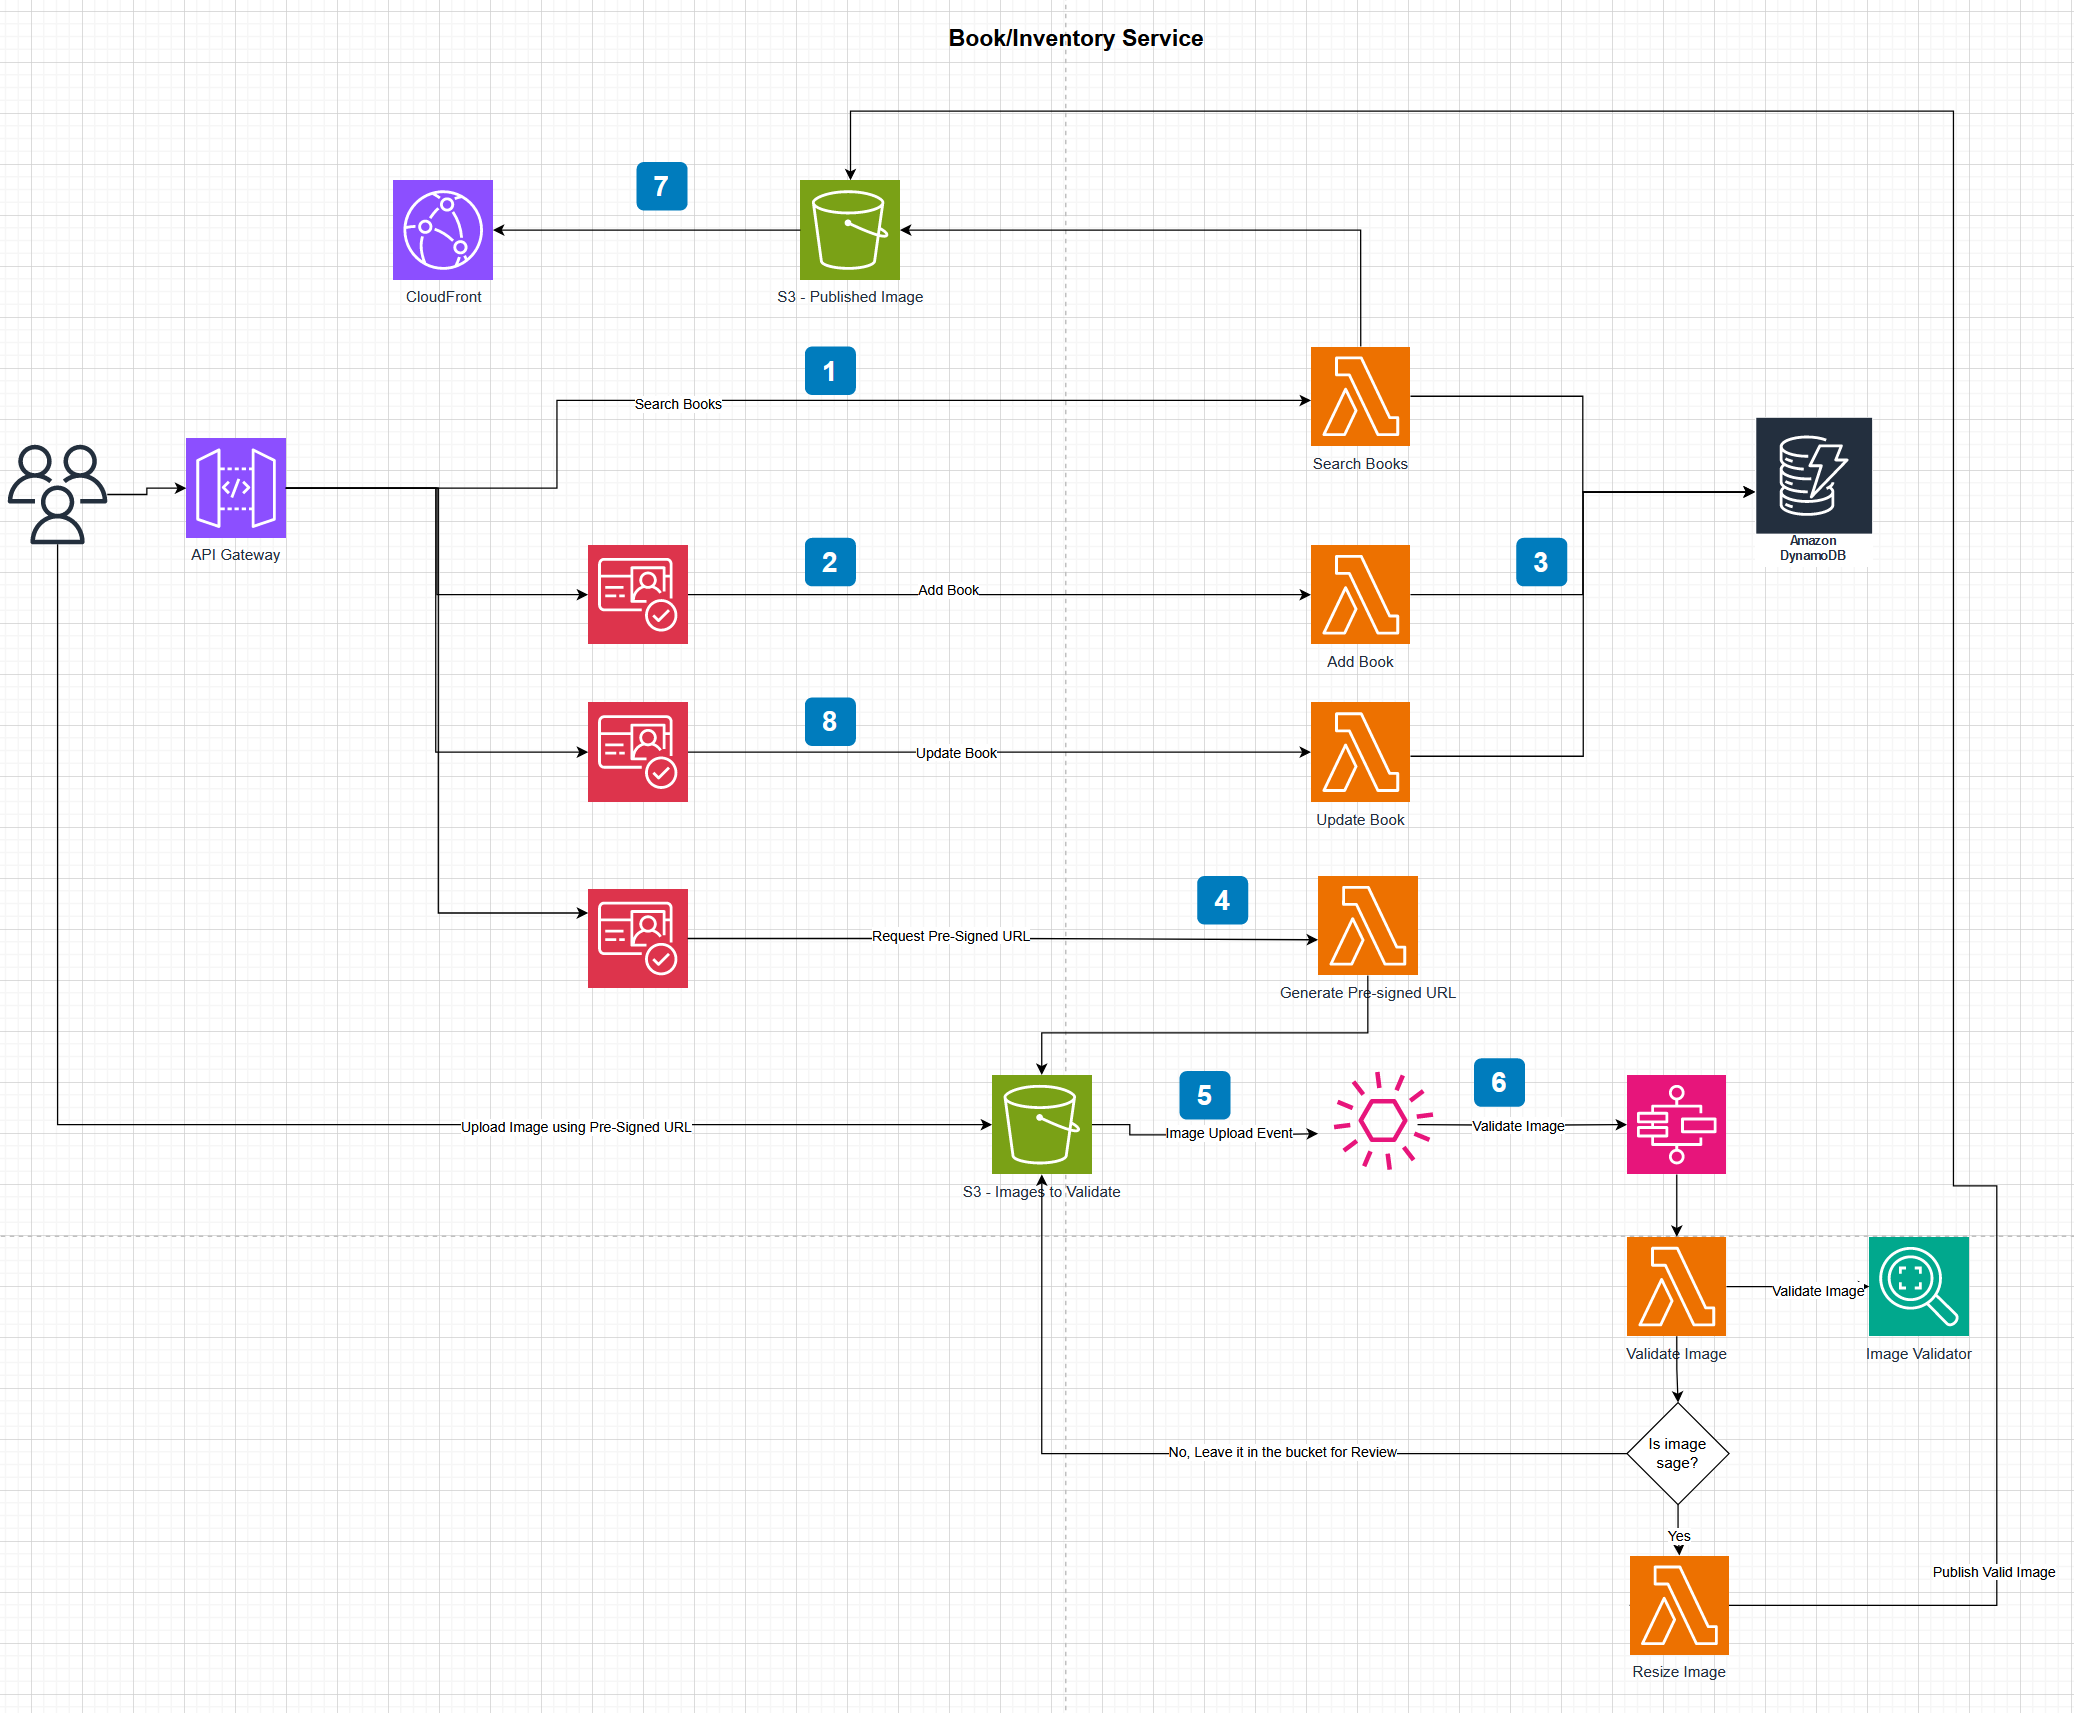
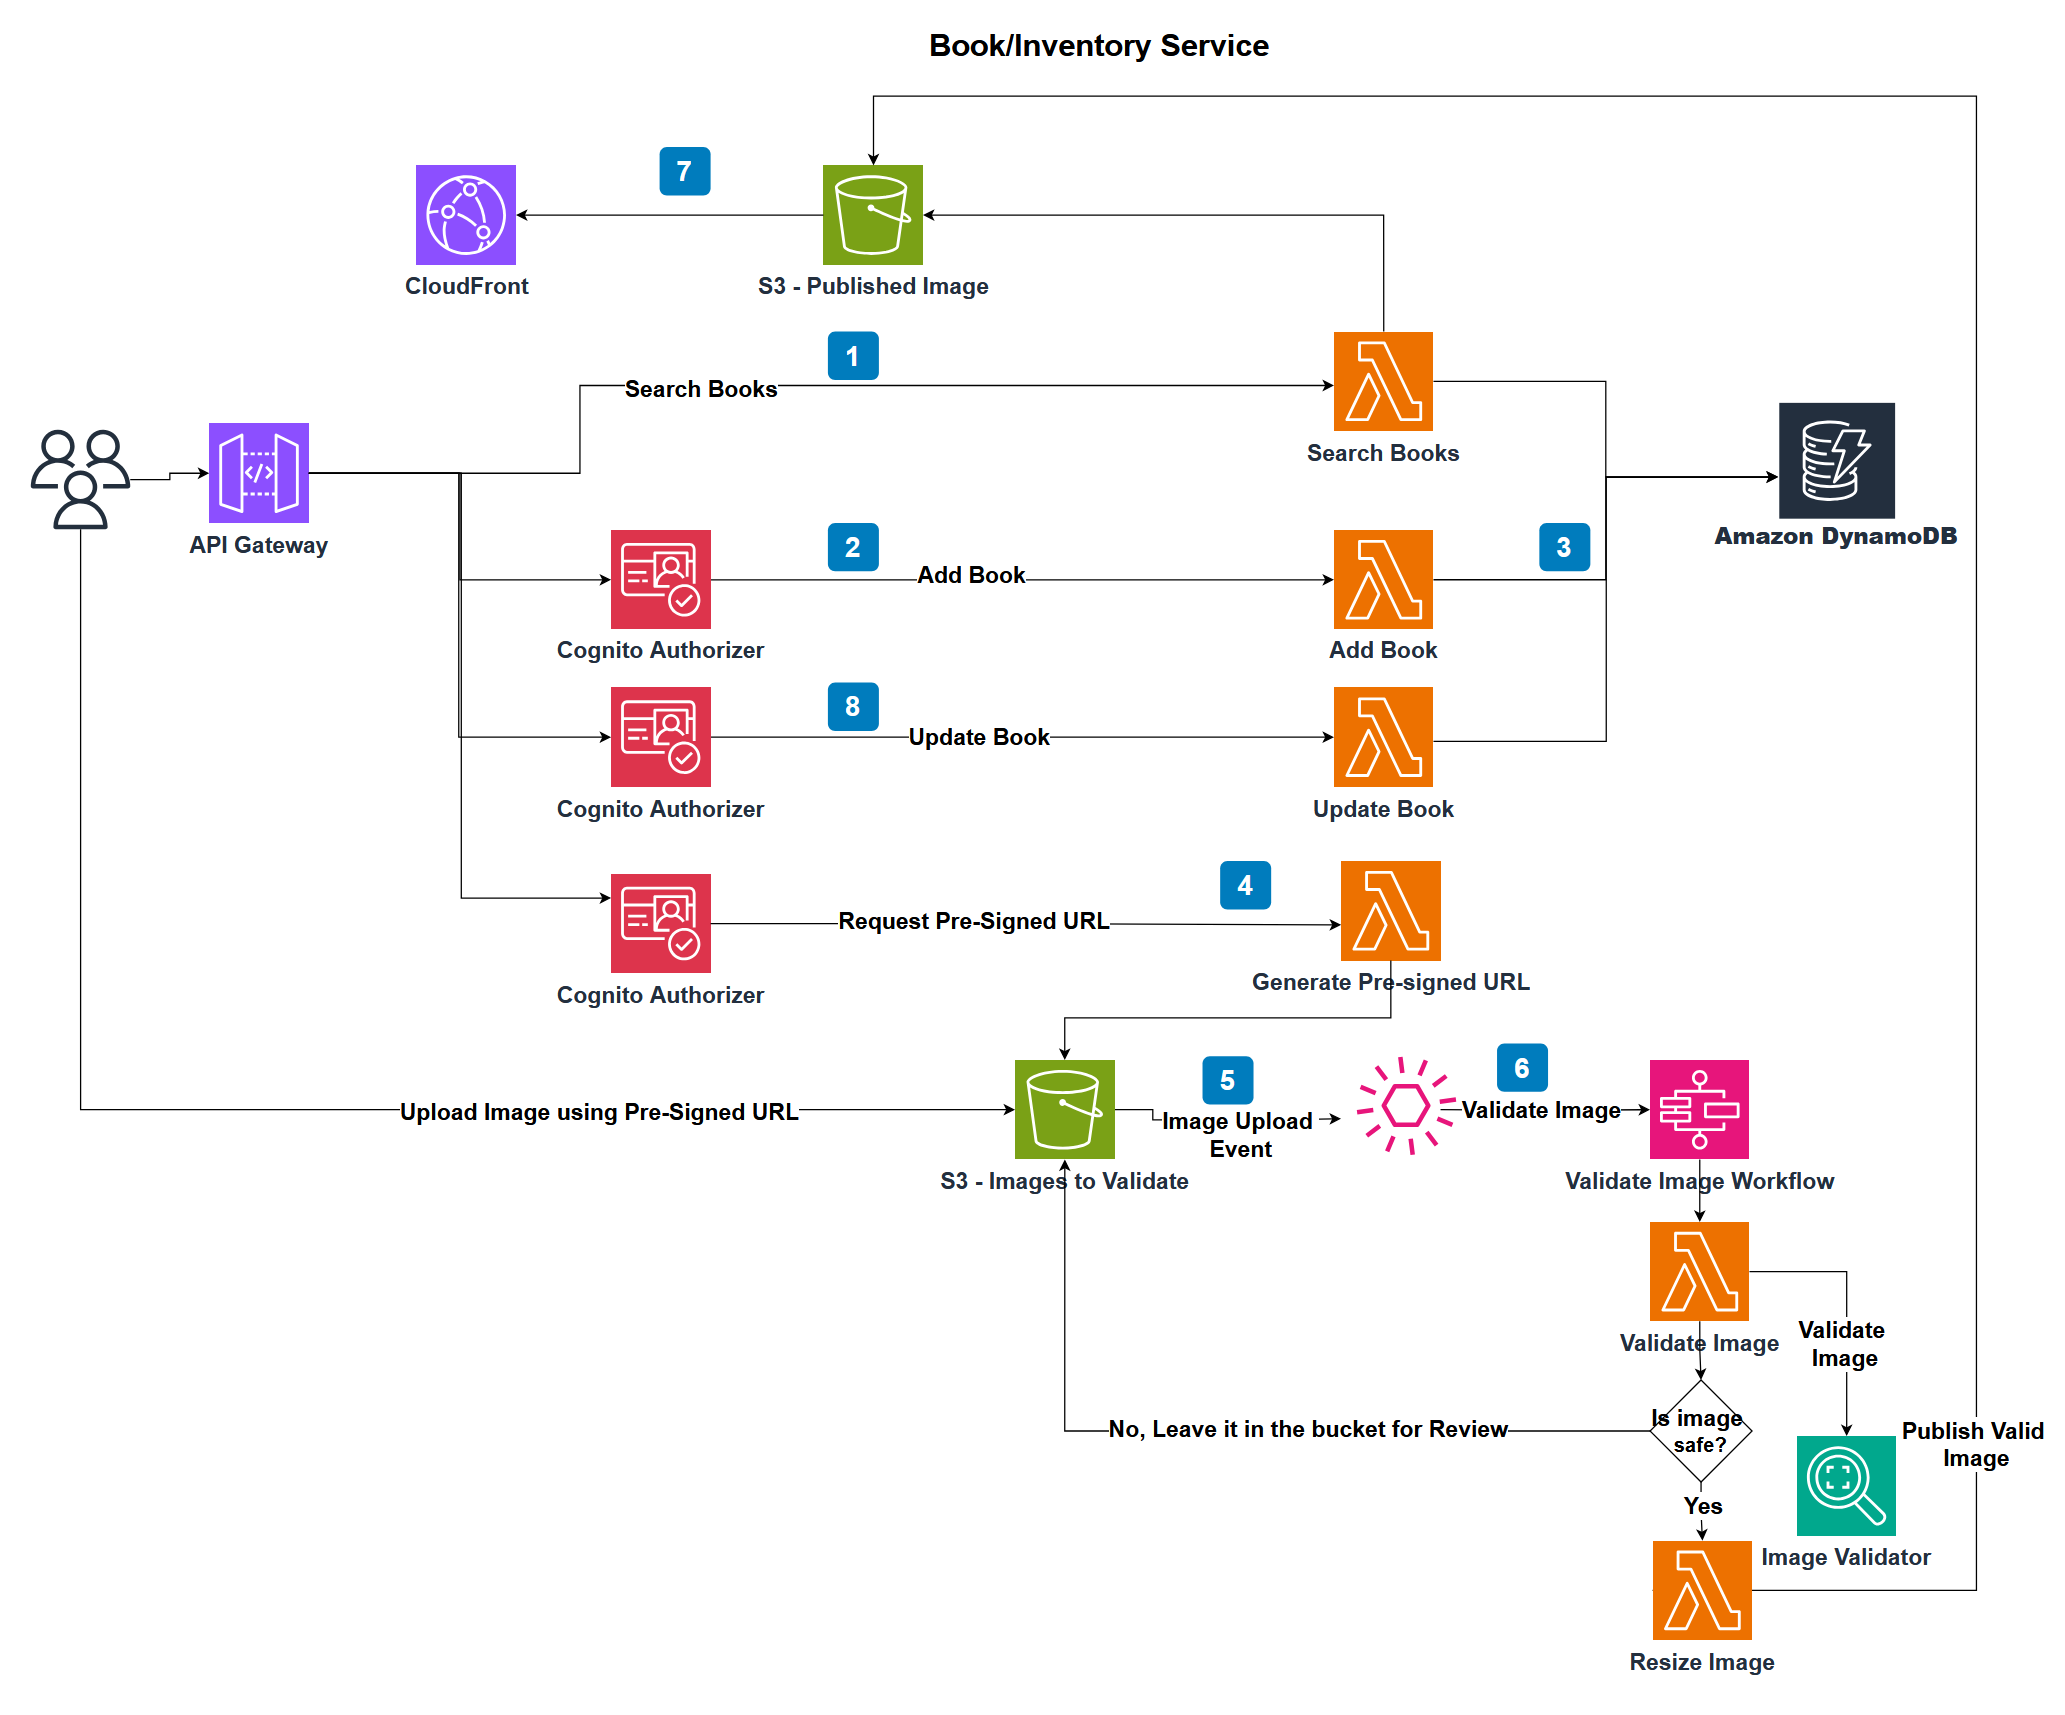
Updated Architecture diagram and README.md

diff --git a/README.md b/README.md
@@ -1,27 +1,27 @@
 ## Bob's Used BookStore Serverless
 Bob's Used BookStore serverless is a serverless version of the [Bob's Used Books Sample Application](https://github.com/aws-samples/bobs-used-bookstore-sample).
-This sample application is to demonstrate modernizing dotnet api by leveraging the serverless framework with AWS Cloud Development Kit (CDK).
+This sample application is to demonstrate modernizing dotnet API by leveraging the serverless framework with [AWS Cloud Development Kit (CDK)](https://docs.aws.amazon.com/cdk/v2/guide/getting_started.html).
 
 ## Overview 
-In this dotnet modernization sample, microservices are identified as the first step. BookInventory is the one of microservice implemented with Amazon Cognito integration.
+In this dotnet modernization sample, microservices are identified as the first step. BookInventory is the one of the microservices implemented with Amazon Cognito integration.
 
 ### BookInventory Architecture
 
-The BookInventory microservice utilizes various serverless services from AWS, including AWS Lambda, Amazon API Gateway, Amazon DynamoDB, Amazon S3 buckets, and AWS Step Functions. Amazon Cognito is integrated with the API Gateway using a custom Lambda authorizer to verify if the requester has the necessary roles to access the endpoint.
+The BookInventory microservice utilizes various serverless services from AWS, including AWS Lambda, Amazon API Gateway, Amazon DynamoDB, Amazon S3 buckets, and Step Functions. Amazon Cognito is integrated with the API Gateway using a Custom Lambda authorizer to verify if the requester has the necessary roles to access the endpoint.
 
 ![img.png](img.png)
 
 - **AWS Lambda** - Lambda functions are built with [Lambda Annotation Framework](https://aws.amazon.com/blogs/developer/net-lambda-annotations-framework/) and [Lambda power tools](https://docs.powertools.aws.dev/lambda/dotnet/). Implemented Lambda functions demonstrates patterns to use CloudWatch for logging, XRay for Tracing and Custom metrics. Lambda function interacts with Amazon DynamoDB for storing data.
-    - **ListBook and SearchBook** api can be used by Admin, Customer and by anonymous users.
-    - **Add Book** api is restricted to only authorized users. Lambda authorizer checks if the requester has "Customer" role.
-    - **Update Book** api is restricted to only authorized users. Lambda authorizer checks if the requester has "Customer" or "Admin" role.
-    - **Cover page Image Upload** api generates presigned URLs to upload cover page image to Amazon S3 bucket. Only "Customer" role is allowed to upload image. Uploaded images for book are stored under book id folder in the bucket for easy access.
+    - **ListBook and SearchBook** APIs can be used by Admin, Customer and by anonymous users.
+    - **Add Book** API is restricted to only authorized users. Lambda authorizer checks if the requester has "Customer" role.
+    - **Update Book** API is restricted to only authorized users. Lambda authorizer checks if the requester has "Customer" or "Admin" role.
+    - **Cover page Image Upload** API generates presigned URLs to upload cover page image to Amazon S3 bucket. Only "Customer" role is allowed to upload image. Uploaded images for book are stored under book id folder in the bucket for easy access.
 
-- **S3 Event Notification** triggers image validation process asynchronously as soon as the image is uploaded in S3 bucket.
+- **S3 Event Notification** triggers image validation process asynchronously as soon as the image is uploaded to S3 bucket.
 - **Step Function and EventBridge Rules** filters are applied to send only new object creation events for images (.jpg and .png) to trigger step function to validate image. Step function checks if the image does not have violent or sexual content using Amazon Rekognition Service.  If the image is safe, another Lambda function resizes it. Otherwise, the image remains in the S3 bucket for manual review. Additionally, this process can be enhanced to include notifications or move the image to a different bucket based on specific requirements
 - **Amazon S3**
-    - **Publish Image bucket** is use to store all safe and resized images where all the images are validated to use in frontend. Original images are deleted after publish. CloudFront is used to expose these images from published bucket for the frontend to use.
-- **Amazon DynamoDB** table is used to stores all BookInventory microservice data.
+    - **Publish Image bucket** is used to store all the validated and resized images that can be used in the frontend application. After the images are published to this bucket, the original images are typically deleted from the source location. This helps optimize storage and reduce costs. CloudFront is used to expose the published images from the S3 bucket to the frontend application.
+- **Amazon DynamoDB** table is used to store BookInventory microservice data.
 
 
 ## Prerequisites
@@ -30,13 +30,13 @@ To run and debug the application locally you need the following:
 * A modern IDE, for example [Visual Studio Code](https://code.visualstudio.com/) or [Visual Studio 2022](https://visualstudio.microsoft.com/vs/) or [JetBrains Rider](https://www.jetbrains.com/rider/)
 
 To deploy the application to AWS you need the following:
-* An AWS IAM User with an attached _AdministratorAccess_ policy
+* An AWS IAM User with an attached _AdministratorAccess_ policy. AdministratorAccess is only recommended for sample application. It is recommended to grant only required policies. 
 * The [AWS Cloud Development Kit (CDK)](https://docs.aws.amazon.com/cdk/v2/guide/getting_started.html)
 * [Bootstrap](https://docs.aws.amazon.com/cdk/v2/guide/bootstrapping.html) your AWS environment for the AWS CDK by executing `cdk bootstrap` in a terminal window
 
 ## Getting started
 1. AuthenticationStack - Authentication Stack configures Cognito user pool "book-store-users". It will also create user groups "Admin" and "Customer".
-2. BookInventoryServiceStack - BookInventoryServiceStack deploys Api gateway with lambda and dynamoDb as the data store. Cognito user pool created in "AuthenticationStack" is used for authentication and authorization in api gateway.
+2. BookInventoryServiceStack - BookInventoryServiceStack deploys Api gateway with Lambda functions and DynamoDB as the data store. Cognito user pool created in "AuthenticationStack" is used for authentication and authorization in API Gateway.
 
 ## Deployment
 Bookstore application can be deployed to AWS via the CDK's command-line tooling. BookInventoryServiceStack depends on the resources created by AuthenticationStack. 
@@ -48,25 +48,27 @@ cdk deploy AuthenticationStack --require-approval=never --app "dotnet run --proj
 cdk deploy BookInventoryServiceStack --require-approval=never --app "dotnet run --project cdk/src/BookInventoryApiStack/BookInventoryApiStack.csproj"
 ```
 ## Postfix Environment
-When a team of developers developing a application, may want to test the feature/change in an isolated 
-environment without impacting the work of other developers. In such cases, a developer can create an isolated testing environment, which will create all the necessary resources with a specific postfix (suffix). This allows the developer to test their changes in an isolated environment without affecting the main or development branch. After successful testing, the code can be merged into the main or development branch for deployment. The isolated testing environment can be destroyed after the testing is complete.
+When a team of developers developing an Application, may want to test the feature/change in an isolated 
+environment without impacting the work of other developers. In such cases, a developer can create an isolated testing environment, which will create all the necessary resources with a specific postfix (suffix). This allows the developer to test their changes in an isolated environment. After successful testing, the code can be merged into the main or development branch. The isolated testing environment can be destroyed after the testing is complete.
+
+Keep the postfix in two or 3 chars to make it simple to identify the resources. Example, -ab will suffix -ab in all the resources. 
 
 ### Bash
 ```
-export STACK_POSTFIX="<<feature-1>>"
+export STACK_POSTFIX="<<-simple-suffix-value>>"
 cdk deploy $"AuthenticationStack{STACK_POSTFIX}" --require-approval=never --app "dotnet run --project cdk/src/AuthenticationStack/AuthenticationStack.csproj"
 cdk deploy $"BookInventoryServiceStack{STACK_POSTFIX}" --require-approval=never --app "dotnet run --project cdk/src/BookInventoryApiStack/BookInventoryApiStack.csproj"
 ```
 ### Windows
 ```
-$Env:STACK_POSTFIX="<<feature-1>>"
+$Env:STACK_POSTFIX="<<-simple-suffix-value>>"
 cdk deploy AuthenticationStack$Env:STACK_POSTFIX --require-approval=never --app "dotnet run --project cdk/src/AuthenticationStack/AuthenticationStack.csproj"
 cdk deploy BookInventoryServiceStack$Env:STACK_POSTFIX --require-approval=never --app "dotnet run --project cdk/src/BookInventoryApiStack/BookInventoryApiStack.csproj"
 ```
 
 ## How to test
 
-The following microservices are used while building BookStore serverless:
+Follow the steps given below to test BookStore application:
 
 1. Setup user in cognito
    * Create new user 
@@ -97,11 +99,11 @@ The following microservices are used while building BookStore serverless:
        }
    }
    ```
-2. Use Api Test tools such as postman to test Book Inventory. Take Book Inventory Api Url from stack output  
+2. Use API Test tools such as postman to test Book Inventory. Take Book Inventory API Url from CloudFormation output  
    **Add Book**
    * It is POST method, 
    * "Customer" is allowed to access
-   * Requires Authorization header with Id token (No need of Bearer infront of Id token)
+   * Requires Authorization header with Id token (Do not include any keyword infront of the Id token)
    ````
    POST https://{{api_gateway_url}}/books
    ````   
@@ -125,9 +127,9 @@ The following microservices are used while building BookStore serverless:
    **Update Book**
    * It is PUT method
    * "Customer" and "Admin" roles are allowed to access
-   * Requires Authorization header with Id token (No need of Bearer infront of Id token)
+   * Requires Authorization header with Id token (Do not include any keyword infront of the Id token)
    ````
-   POST https://{{api_gateway_url}}/books
+   PUT https://{{api_gateway_url}}/books
    ````   
    * Request body
    ````
@@ -159,23 +161,23 @@ The following microservices are used while building BookStore serverless:
      GET https://{{api_gateway_url}}/books?pageSize=2&cursor=null 
      ````
    * Set pageSize for the response. If the data in the response exceeds pageSize, response will provide cursor for next call. Use the cursor value in the next call to query next page
-   * Set cursor - null for first call; Take cursor from the response for next page
+   * Set cursor = null to get the first page; Use the token from the response for next pages
    * If the response has cursor = "", then the search reached end of all the pages
    
 
    **Pre-signed url to upload cover page image to S3 bucket**
    * Add Book id and file name to upload
    * "Customer" role is allowed to access
-   * Requires Authorization header with Id token (No need of Bearer infront of Id token)
+   * Requires Authorization header with Id token (Do not include any keyword infront of the Id token)
    ````
    GET https://{{api_gateway_url}}/books/{id}/{fileName}
    ````
    
-3. Upload .png/.jpg image to S3 using presigned url. After validation, it will be moved to published image bucket. It can be accessed through cloudFront
+3. Upload .png/.jpg image to S3 using pre-signed url. After validation, it will be moved to published image bucket. It can be accessed through cloudFront
    
 ## Deleting the resources
 
-When you have completed working with the sample applications we recommend deleting the resources to avoid possible charges. To do this, either:
+When you have completed working with the sample applications, we recommend deleting the resources to avoid possible charges. To do this, either:
 
 * In a terminal window navigate to the solution folder and run the command
 ```
@@ -186,10 +188,6 @@ cdk destroy AuthenticationStack --require-approval=never --app "dotnet run --pro
 ```
 or
 * Navigate to the CloudFormation dashboard in the AWS Management Console and delete all Bob's Used BookStore Serverless stacks.
-
-## Security
-
-See [CONTRIBUTING](CONTRIBUTING.md#security-issue-notifications) for more information.
 
 ## License
 
